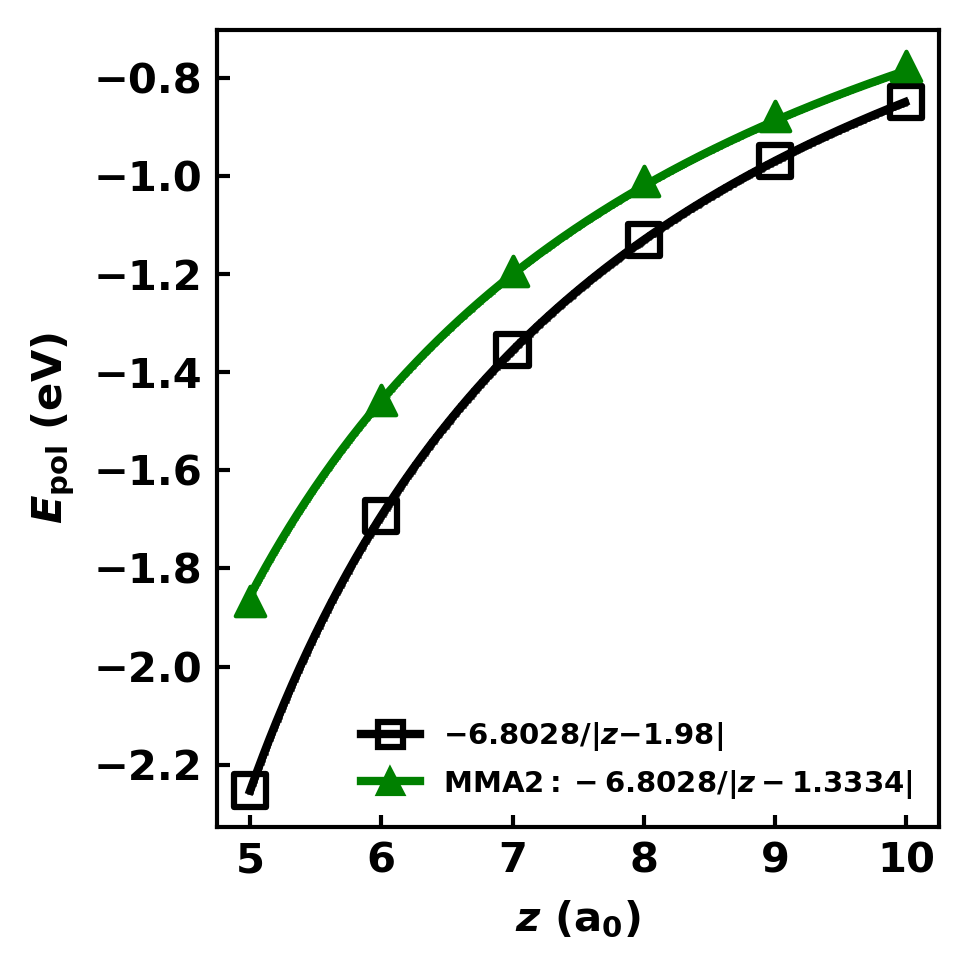
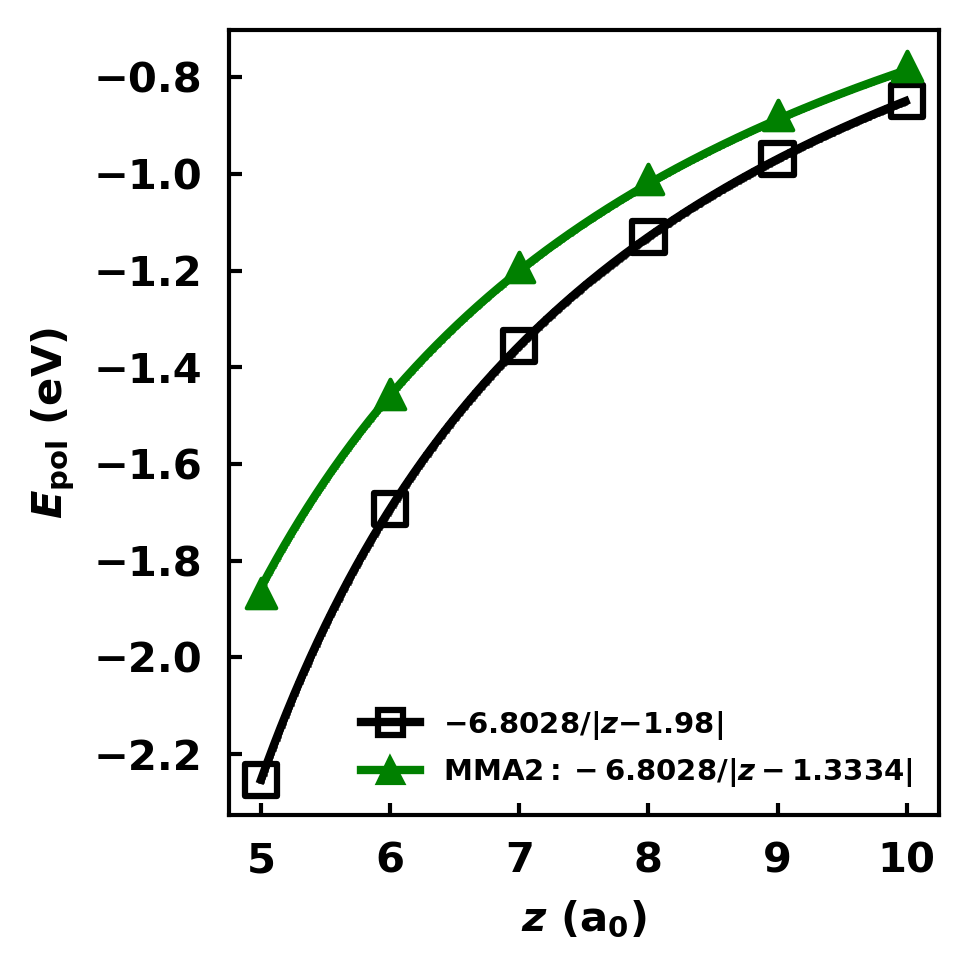
Adding edits suggested by Ken

diff --git a/data/polarization_potential/figure_2/figure_2.py b/data/polarization_potential/figure_2/figure_2.py
@@ -45,8 +45,8 @@ axs.set_xlabel(r"$\mathit{z} \ (a_0)$")
 axs.set_ylabel(r"$\mathit{E}_{pol} \ \mathrm{\left( eV \right)}$")
 axs.set_xticks([5,6,7,8,9,10])
 axs.set_yticks([-0.1,-0.3,-0.5,-0.7,-0.9,-1.1,-1.3])
-axs.xaxis.set_tick_params(direction="in",length=3,width=1)
-axs.yaxis.set_tick_params(direction="in",length=3,width=1)
+axs.xaxis.set_tick_params(direction="in",length=3,width=1,pad=6.25)
+axs.yaxis.set_tick_params(direction="in",length=3,width=1,pad=6.25)
 axs.grid(False)
 
 fig.set_tight_layout(True)
@@ -77,13 +77,13 @@ axs.plot(i[1],i[4],color="orange",markersize=7,linewidth=1.5,linestyle='-',marke
 axs.plot(i[1],i[5],color="red",markersize=7,linewidth=1.5,linestyle='-',marker="+",markeredgewidth=1.5,label=r"$\mathrm{C_{15000}}$")
 axs.plot(i[1],i[6],color="lime",markersize=7,linewidth=1.5,linestyle='-',marker="x",markeredgewidth=1.5,label=r"$\mathrm{C_{60000}}$")
 axs.plot(i[1],i[7],color="black",markersize=7,linewidth=1.5,linestyle='-',marker="s",markeredgecolor='k',fillstyle='none',markeredgewidth=1.5,label=r"$\mathrm{-6.8028/|}\mathit{z}|$")
-axs.text(6.0,-0.55,r"$\mathrm{(b): Q_{mol}=+1}$",horizontalalignment='center',verticalalignment='center')
+axs.text(6.05,-0.54,r"$\mathrm{(b): Q_{mol}=+1}$",horizontalalignment='center',verticalalignment='center')
 axs.set_xlabel(r"$\mathit{z} \ (a_0)$")
 axs.set_ylabel(r"$\mathit{E}_{pol} \ \mathrm{\left( eV \right)}$")
 axs.set_xticks([5,6,7,8,9,10])
 axs.set_yticks([-0.5,-0.7,-0.9,-1.1,-1.3])
-axs.xaxis.set_tick_params(direction="in",length=3,width=1)
-axs.yaxis.set_tick_params(direction="in",length=3,width=1)
+axs.xaxis.set_tick_params(direction="in",length=3,width=1,pad=6.25)
+axs.yaxis.set_tick_params(direction="in",length=3,width=1,pad=6.25)
 axs.grid(False)
 axs.legend(loc="lower right", frameon=False, fontsize=8)
 

diff --git a/data/polarizabilities/figure_1.py b/data/polarizabilities/figure_1.py
@@ -38,16 +38,18 @@ for idx, i in enumerate(xx_yy):
     if i[0] == "PBEZERO":
         axs.plot(i[1],i[2],color="black",markersize=8,linewidth=1,marker="s",markeredgecolor='k',fillstyle='none',markeredgewidth=1,label=r"$\mathrm{PBE0}$")
     elif i[0] == "QMA1":
-        axs.plot(i[1],i[2],color="blue",markersize=7,linewidth=1,linestyle='--',marker="o",label=r"$\mathrm{MMA1}$")
+        axs.plot(i[1],i[2],color="blue",markersize=7,linewidth=1,linestyle='-',marker="o",label=r"$\mathrm{MMA1}$")
     elif i[0] == "QP2":
         axs.plot(i[1],i[2],color="orange",markersize=6,linewidth=1,linestyle='-',marker="^",label=r"$\mathrm{MP2}$")
-    axs.set_xticks([6,24,54,96,150,216,294,384])
-    axs.grid(False)
-    axs.xaxis.set_tick_params(direction="in",length=3,width=1,labelsize=7)
-    axs.yaxis.set_tick_params(direction="in",length=3,width=1,labelsize=8)
-    axs.legend(loc="best", frameon=False)
-    axs.set_ylabel(r"$\mathrm{\alpha_{xx/yy}} \ \mathrm{\left( a.u.^{3} \right)}$")
-    axs.set_xlabel(r"$\mathit{N_{C}}$")    
+axs.set_xticks([6,24,54,96,150,216,294,384])
+axs.grid(False)
+axs.xaxis.set_tick_params(direction="in",length=3,width=1,labelsize=7,pad=6.25)
+axs.yaxis.set_tick_params(direction="in",length=3,width=1,labelsize=8,pad=6.25)
+print(axs.xaxis.labelpad)
+print(axs.yaxis.labelpad)
+axs.legend(loc="best", frameon=False)
+axs.set_ylabel(r"$\mathrm{\alpha_{xx/yy}} \ \mathrm{\left( a.u.^{3} \right)}$")
+axs.set_xlabel(r"$\mathit{N_{C}}$")
 
 fig.set_tight_layout(True)
 plt.savefig("figure_1.png", dpi=300,bbox_inches='tight')

diff --git a/data/charge_density/h_equals_10/figure_4b.py b/data/charge_density/h_equals_10/figure_4b.py
@@ -79,8 +79,8 @@ axs.plot(classical_data[:,0],classical_data[:,1],c='k',linewidth=1.5,label=r"$\m
 axs.set_xlim([-5,476])
 axs.set_ylim([-0.05,1.05])
 axs.grid(False)
-axs.xaxis.set_tick_params(direction="in",length=3,width=1)
-axs.yaxis.set_tick_params(direction="in",length=3,width=1)
+axs.xaxis.set_tick_params(direction="in",length=3,width=1,pad=6.25)
+axs.yaxis.set_tick_params(direction="in",length=3,width=1,pad=6.25)
 axs.set_xticks([100,200,300,400])
 axs.legend(loc=8, frameon=False, markerscale=1.5, title=r"$\mathrm{(a): \ \mathit{z}=10 \ a_{0}}$")
 axs.set_xlabel(r"$\mathit{R} \ (a_{0})$")

diff --git a/data/charge_density/h_equals_5/figure_4a.py b/data/charge_density/h_equals_5/figure_4a.py
@@ -79,8 +79,8 @@ axs.plot(classical_data[:,0],classical_data[:,1],c='k',linewidth=1.5,label=r"$\m
 axs.set_xlim([-5,476])
 axs.set_ylim([-0.05,1.05])
 axs.grid(False)
-axs.xaxis.set_tick_params(direction="in",length=3,width=1)
-axs.yaxis.set_tick_params(direction="in",length=3,width=1)
+axs.xaxis.set_tick_params(direction="in",length=3,width=1,pad=6.25)
+axs.yaxis.set_tick_params(direction="in",length=3,width=1,pad=6.25)
 axs.set_xticks([100,200,300,400])
 axs.legend(loc=8, frameon=False, markerscale=1.5, title=r"$\mathrm{(a): \ \mathit{z}=5 \ a_{0}}$")
 axs.set_xlabel(r"$\mathit{R} \ (a_{0})$")

diff --git a/data/polarization_potential/figure_3/figure_3.py b/data/polarization_potential/figure_3/figure_3.py
@@ -48,8 +48,8 @@ axs.scatter(z,MMA2,color="green",s=50,marker="^")
 axs.set_xlabel(r"$\mathit{z} \ (a_0)$")    
 axs.set_xticks([5,6,7,8,9,10])
 axs.set_yticks([-0.6,-0.8,-1.0,-1.2,-1.4])
-axs.xaxis.set_tick_params(direction="in",length=3,width=1)
-axs.yaxis.set_tick_params(direction="in",length=3,width=1)
+axs.xaxis.set_tick_params(direction="in",length=3,width=1,pad=6.25)
+axs.yaxis.set_tick_params(direction="in",length=3,width=1,pad=6.25)
 axs.grid(False)
 axs.legend(loc="best", frameon=False, markerscale=600, fontsize=9)
 axs.set_ylabel(r"$\mathit{E}_{pol} \ \mathrm{\left( eV \right)}$")

diff --git a/data/polarization_potential/figure_6/figure_6.py b/data/polarization_potential/figure_6/figure_6.py
@@ -43,8 +43,8 @@ axs.scatter(z,MMA2,color="green",s=50,marker="^")
 
 axs.set_xlabel(r"$\mathit{z} \ (a_0)$")    
 axs.set_xticks([5,6,7,8,9,10])
-axs.xaxis.set_tick_params(direction="in",length=3,width=1)
-axs.yaxis.set_tick_params(direction="in",length=3,width=1)
+axs.xaxis.set_tick_params(direction="in",length=3,width=1,pad=6.25)
+axs.yaxis.set_tick_params(direction="in",length=3,width=1,pad=6.25)
 axs.grid(False)
 axs.legend(loc="best", frameon=False, fontsize=8, markerscale=600)
 axs.set_ylabel(r"$\mathit{E}_{int} \ \mathrm{\left( eV \right)}$")

diff --git a/data/polarization_potential/figure_5/figure_5.py b/data/polarization_potential/figure_5/figure_5.py
@@ -42,8 +42,8 @@ axs.scatter(z,MMA2,color="green",s=50,marker="^")
 
 axs.set_xlabel(r"$\mathit{z} \ (a_0)$")  
 axs.set_xticks([5,6,7,8,9,10])
-axs.xaxis.set_tick_params(direction="in",length=3,width=1)
-axs.yaxis.set_tick_params(direction="in",length=3,width=1)
+axs.xaxis.set_tick_params(direction="in",length=3,width=1,pad=6.25)
+axs.yaxis.set_tick_params(direction="in",length=3,width=1,pad=6.25)
 axs.grid(False)
 axs.legend(loc="best", frameon=False, fontsize=7, markerscale=600)
 axs.set_ylabel(r"$\mathit{E}_{pol} \ \mathrm{\left( eV \right)}$")
